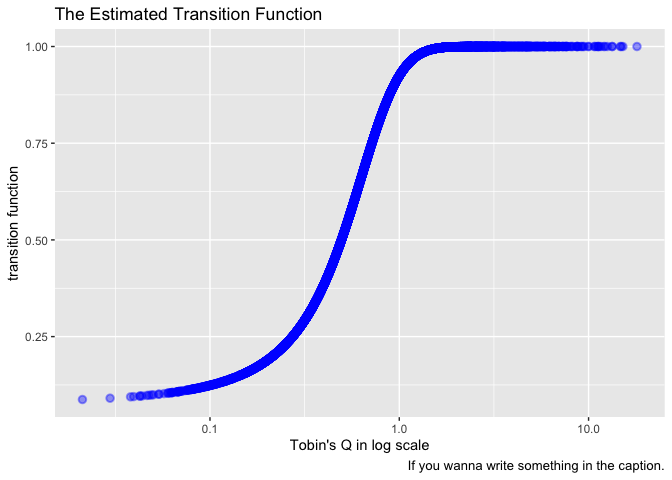
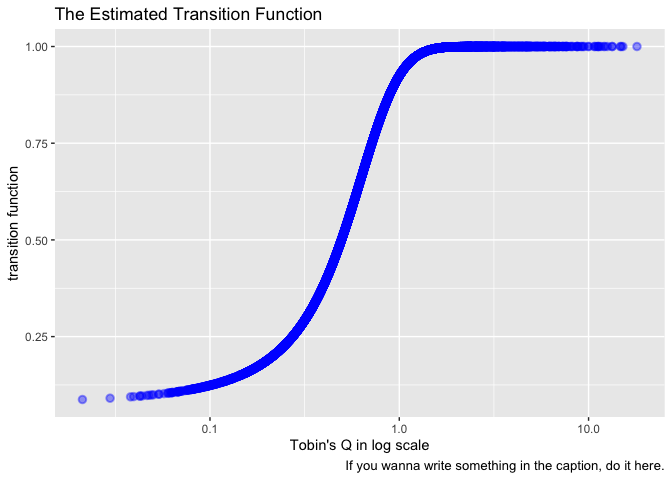
Add files via upload

Changed region(s): [[0.5312, 0.9375, 1.0, 1.0]]

diff --git a/README.md b/README.md
@@ -221,8 +221,9 @@ For details, read the vignette.
 Now you can plot the estimated transition function by running
 
 ``` r
-plot_transition(pstr, color = "blue", size = 2, x="Tobin's Q in log scale",
-   title="The Estimated Transition Function",caption="If you wanna write something in the caption.",logx=TRUE)
+plot_transition(pstr, logx=TRUE, color = "blue", size = 2,
+    x="Tobin's Q in log scale", title="The Estimated Transition Function",
+    caption="If you wanna write something in the caption, do it here.")
 ```
 
 ![](README-plot-1.png)
